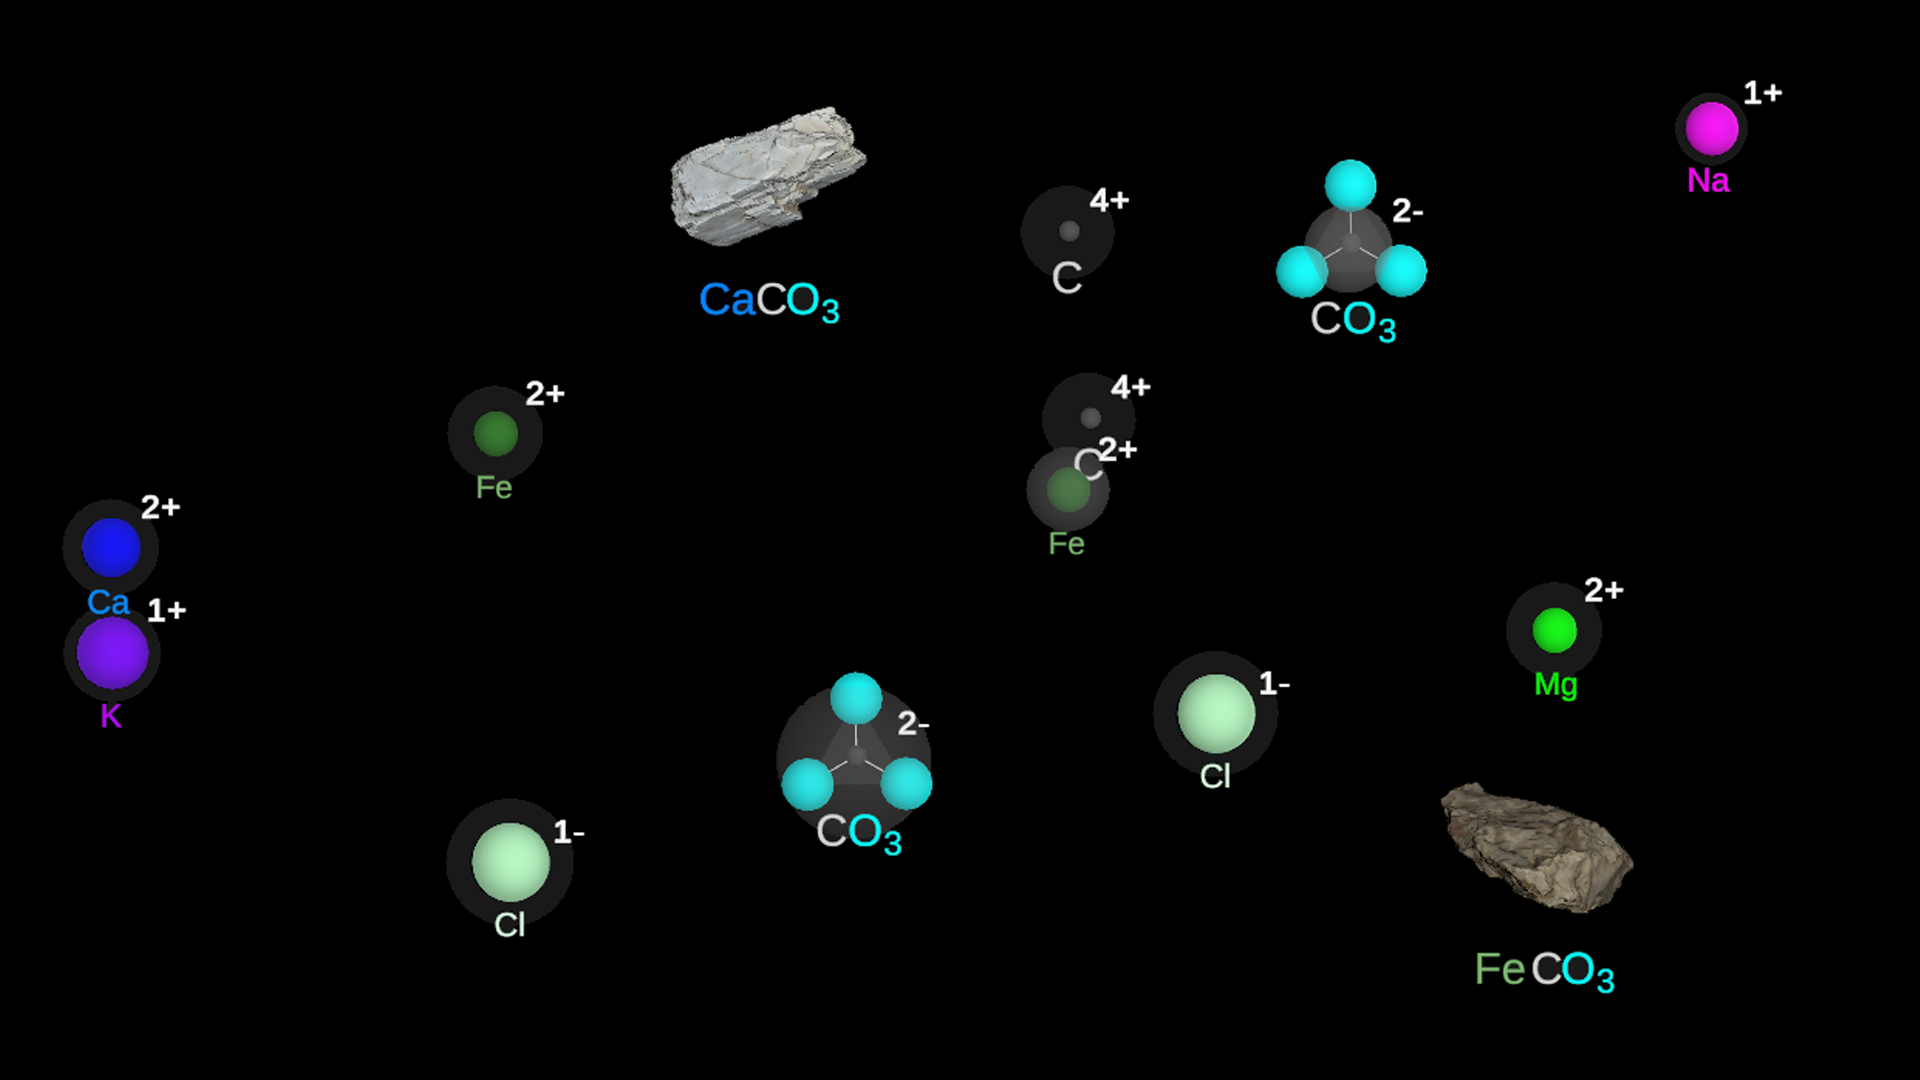
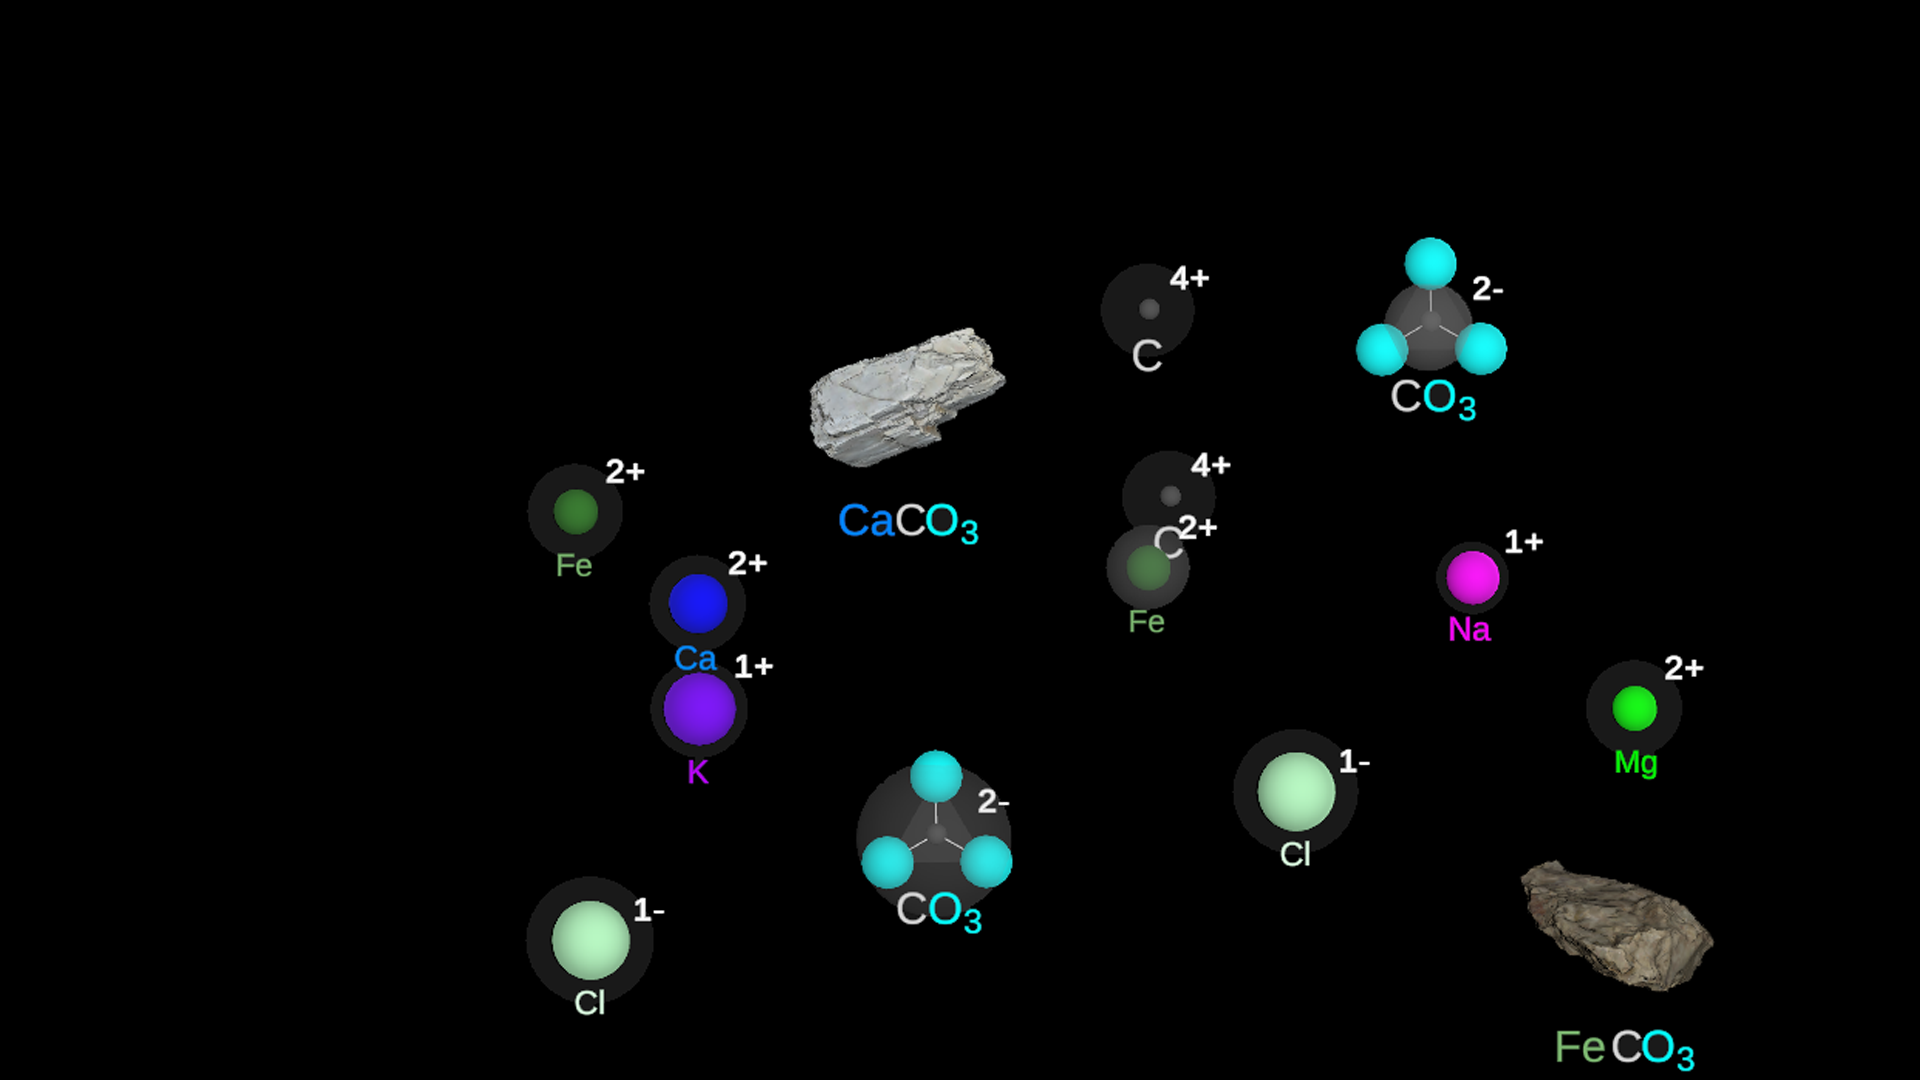
add different versions of wall layout for supplementary content

diff --git a/wall/css/app.css b/wall/css/app.css
@@ -9,11 +9,6 @@ h1 {
   margin-top: 2.2vmin;
   font-size: 3.2vmin;
 }
-
-.wall {
-
-}
-
 .screen-wrapper {
   top: 0;
   position: absolute;
@@ -143,11 +138,11 @@ h1 {
   flex-grow: 1;
 }
 .mineral-text .name {
-  font-size: 1.667vmin;
+  font-size: 1.5vmin;
   white-space: nowrap;
 }
 .mineral-text .formula {
-  font-size: 1.667vmin;
+  font-size: 1.5vmin;
   display: none;
   white-space: nowrap;
   -webkit-animation: fadeInUp 0.5s ease-in-out;
@@ -157,6 +152,63 @@ h1 {
   display: inline-block;
   margin: 0 -0.2vmin;
   vertical-align: middle;
+}
+
+.wall[data-layout="v2"] .pt,
+.wall[data-layout="v3"] .pt {
+  position: absolute;
+  top: 0;
+  width: 90%;
+  left: 50%;
+  margin-left: -45%;
+}
+.wall[data-layout="v2"] .pt .gradient,
+.wall[data-layout="v3"] .pt .gradient {
+  height: 25%;
+}
+.wall[data-layout="v2"] .supplementary {
+  bottom: auto;
+  top: 66.6666666667%;
+}
+.wall[data-layout="v2"] .formulas {
+  background: rgba(1,167,181,0.196516106442577);
+  background: linear-gradient(180deg, rgba(1,167,181,0.196516106442577) 0%, rgba(0,0,0,0) 100%);
+  position: relative;
+  padding-top: 0;
+}
+.wall[data-layout="v2"] .formulas h2 {
+  margin: 0;
+  position: absolute;
+  width: 100%;
+  height: 40px;
+  line-height: 40px;
+  top: -40px;
+  left: 0;
+}
+
+.wall[data-layout="v3"] .formulas h2 {
+  display: none;
+}
+.wall[data-layout="v3"] .supplementary {
+  bottom: auto;
+  top: 70%;
+  justify-content: space-between;
+}
+.wall[data-layout="v3"] .formulas {
+  width: auto;
+  background: linear-gradient(90deg, rgba(1,167,181,0) 0%, rgba(1,167,181,0.196516106442577) 100%);
+}
+.wall[data-layout="v3"] .formulas:first-child {
+  background: linear-gradient(90deg, rgba(1,167,181,0.196516106442577) 0%, rgba(1,167,181,0) 100%);
+}
+.wall[data-layout="v3"] .minerals {
+  flex-direction: column;
+}
+.wall[data-layout="v3"] .mineral {
+  width: auto;
+}
+.wall[data-layout="v3"] .formulas:last-child .mineral {
+  flex-direction: row-reverse;
 }
 
 .mineral:hover .mineral-text .name {
@@ -199,6 +251,26 @@ h1 {
 }
 .fe {
   color: #497b36;
+}
+
+
+.menu {
+  border: 2px solid red;
+  width: auto;
+  display: inline-block;
+}
+a.menu-link {
+  color: #ccc;
+  font-weight: bold;
+  padding: 0.5rem 1rem;
+  font-size: 1.4rem;
+  display: block;
+  text-decoration: none;
+
+}
+a.menu-link.active {
+  text-decoration: underline;
+  color: white;
 }
 
 @keyframes fadeInUp {

diff --git a/wall/js/app.js b/wall/js/app.js
@@ -1,0 +1,34 @@
+'use strict';
+
+var WallApp = (function() {
+
+  function WallApp(config) {
+    var defaults = {};
+    this.opt = $.extend({}, defaults, config);
+
+    this.init();
+  }
+
+  function queryParams(){
+    if (location.search.length) {
+      var search = location.search.substring(1);
+      return JSON.parse('{"' + search.replace(/&/g, '","').replace(/=/g,'":"') + '"}', function(key, value) { return key===""?value:decodeURIComponent(value) });
+    }
+    return {};
+  }
+
+  WallApp.prototype.init = function(){
+    var q = queryParams();
+    var layout = "v2";
+    if (q.layout) layout = q.layout;
+    $('.wall').attr('data-layout', layout);
+    $('.menu-link.'+layout).addClass('active');
+  };
+
+  return WallApp;
+
+})();
+
+$(function() {
+  var app = new WallApp({});
+});

diff --git a/wall/index.html b/wall/index.html
@@ -15,7 +15,7 @@
 
 <body>
 
-  <div class="wall">
+  <div class="wall" data-layout="v2">
 
     <div class="screen-wrapper">
 
@@ -171,8 +171,12 @@
 
       </div>
 
+    </div>
 
-
+    <div class="menu">
+      <a href="?layout=v1" class="menu-link v1">Version 1</a>
+      <a href="?layout=v2" class="menu-link v2">Version 2</a>
+      <a href="?layout=v3" class="menu-link v3">Version 3</a>
     </div>
 
   </div>
